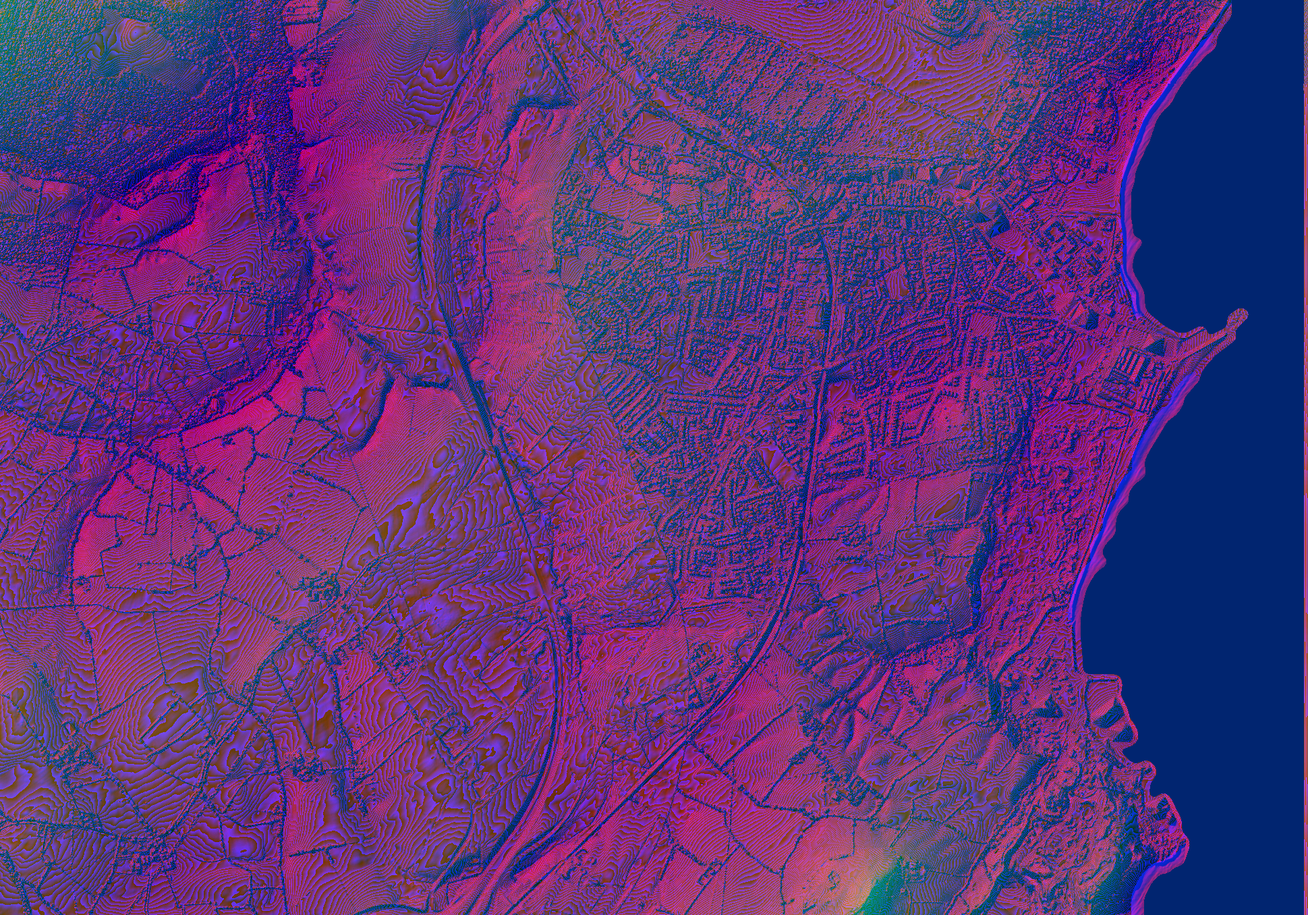
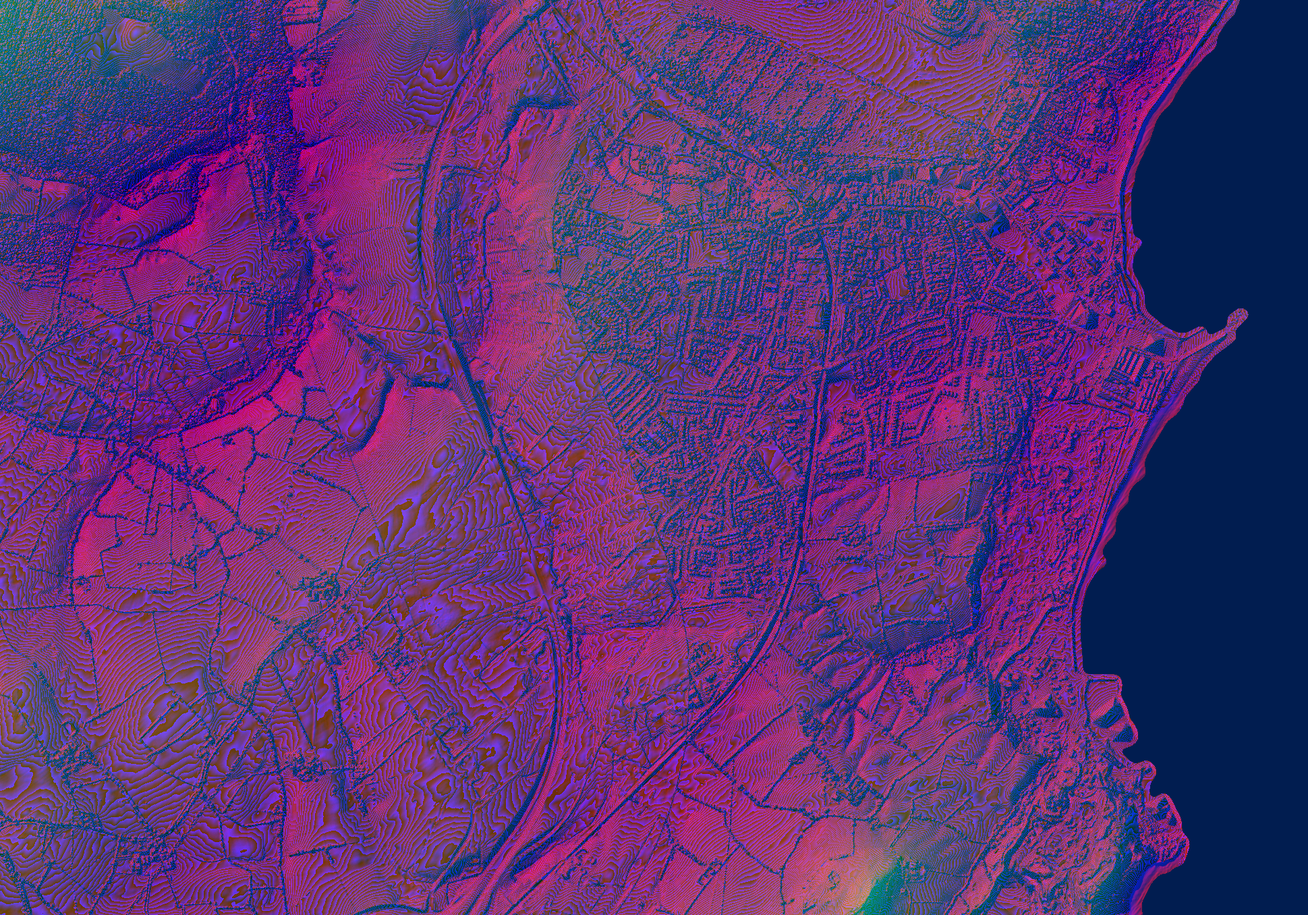
Hand-over: detail starts as coarse as the overview; Arklow edge stripe fixed
- a docked detail terrain starts with the overview's point density and
  point size, scattered off its grid, with a wide ragged margin; it fills
  up to the full scan only on the last stretch of the zoom
- the overview makes room for the detail where it lies, and stays around
  it until the very end
- the zoom pace is gentler in the middle (13 s in, 10 s out), so the
  hand-over gets its time
- Arklow: a strip of false land along the right border (border erosion
  of the sea mask) removed

Claude-Session: https://claude.ai/code/session_01AUtrK7ZNP4Cu7jf2w99u8u

Changed region(s): [[0.7117, 0.0, 1.0, 1.0], [0.0, 0.0, 0.0619, 1.0]]

diff --git a/assets/shrines.js b/assets/shrines.js
@@ -53,6 +53,10 @@ const uniforms = {
   uScale: { value: 1 },
   uRise: { value: 0 },
   uSoft: { value: 0 },
+  uLogMin: { value: 0 },
+  uJit: { value: 0 },
+  uHoleA: { value: 0 },
+  uHole: { value: new THREE.Vector4(0, 0, 1, 1) },
   uHalf: { value: new THREE.Vector2(1, 1) },
   uSize: { value: isSmall ? 1.6 : 1.35 },
   uPx: { value: renderer.getPixelRatio() },
@@ -71,8 +75,10 @@ const pointMat = new THREE.ShaderMaterial({
     attribute float aShade;
     attribute float aRand;
     attribute float aWater;
-    uniform float uTime, uSize, uPx, uLevel, uListen, uSpan, uDrift, uFar, uForm, uScale, uRise, uSoft;
+    uniform float uTime, uSize, uPx, uLevel, uListen, uSpan, uDrift, uFar, uForm, uScale, uRise, uSoft, uLogMin, uJit;
     uniform vec2 uHalf;
+    uniform float uHoleA;
+    uniform vec4 uHole;
     uniform vec3 uFocus;
     varying float vShade, vFog, vSweep, vRing, vWater;
     void main(){
@@ -106,20 +112,34 @@ const pointMat = new THREE.ShaderMaterial({
       vRing = exp(-pow((d - r) / 1.6, 2.0)) * (1.0 - r / 60.0) * (0.25 + uLevel * 2.2) * uListen;
       vRing += smoothstep(14.0, 0.0, d) * uLevel * 1.4 * uListen;
       p.y += vRing * 0.9;
+      // while coarse, points leave the scan's grid, like the scattered returns of the overview
+      if (uSoft > 0.0) p.xz += (vec2(fract(aRand * 91.7), fract(aRand * 57.3)) - 0.5) * uJit * pow(uSoft, 0.6);
       vec4 mv = modelViewMatrix * vec4(p, 1.0);
       gl_Position = projectionMatrix * mv;
       float depth = -mv.z / uScale;   // a terrain docked small into the overview keeps its own point size and haze
-      // a terrain that is just appearing inside the overview is drawn coarsely and without a border:
-      // fewer points, a little larger, thinning out toward its edges
+      // a terrain that is just appearing inside the overview starts as coarse as the overview around it:
+      // only as many points as the overview has on the same ground, just as large, scattered a little,
+      // and fading out over a wide, ragged margin. On the way in it fills up to the whole scan.
       float soft = 1.0;
+      float depthS = depth;
       if (uSoft > 0.0) {
-        float e = min(uHalf.x - abs(position.x), uHalf.y - abs(position.z)) / (0.34 * min(uHalf.x, uHalf.y));
-        float edge = smoothstep(0.0, 1.0, e + (aRand - 0.5) * 0.6);
-        float few = step(fract(aRand * 13.7), mix(1.0, 0.22, uSoft));
-        soft = mix(1.0, edge * few, uSoft);
+        float sc = pow(uSoft, 0.6);            // stay coarse for most of the way, sharpen at the end
+        float keep = exp(uLogMin * sc);
+        float few = step(fract(aRand * 13.7), keep);
+        float band = 0.85 * sc * min(uHalf.x, uHalf.y) + 1e-4;
+        float e = min(uHalf.x - abs(position.x), uHalf.y - abs(position.z)) / band;
+        float edge = smoothstep(0.0, 1.0, e + (fract(aRand * 5.31) - 0.5) * 1.1 * sc);
+        soft = few * edge;
+        depthS = exp(mix(log(depth), log(-mv.z), sc));   // point size of the overview at this distance
       }
-      gl_PointSize = clamp(uSize * uPx * (230.0 / depth) * (1.0 + 0.9 * uSoft), 0.9, 5.0 * uPx);
+      gl_PointSize = clamp(uSize * uPx * (230.0 / depthS), 0.9, 8.0 * uPx);
       vShade = aShade;
+      // the overview makes room for a detail terrain where it lies, as that terrain fills in
+      if (uHoleA > 0.0) {
+        vec2 q = abs(position.xz - uHole.xy) / uHole.zw;
+        float inside = 1.0 - smoothstep(0.6, 1.25, max(q.x, q.y) + (fract(aRand * 3.7) - 0.5) * 0.3);
+        soft *= 1.0 - uHoleA * inside;
+      }
       vFog = smoothstep(uFar, 220.0, depth) * life * form * soft;
       // scan dropout flicker
       vFog *= step(0.04, fract(aRand + uTime * 0.013 * aRand));
@@ -216,7 +236,7 @@ function makeCloud(img, opt) {
   geo.setAttribute("aWater", new THREE.BufferAttribute(wat.slice(0, n), 1));
   const points = new THREE.Points(geo, opt.mat || pointMat);
   points.frustumCulled = false;
-  return { points, W: W_, D: D_, heightAt: hAt, count: n, half };
+  return { points, W: W_, D: D_, heightAt: hAt, count: n, half, nx: NX };
 }
 
 /* ───────────── two views: Europe overview · one detail terrain ───────────── */
@@ -377,7 +397,7 @@ const ease = (t) => (t < 0.5 ? 4 * t * t * t : 1 - Math.pow(-2 * t + 2, 3) / 2);
 const K = 0.016;                       // size of a detail terrain inside the overview (about 4 units wide)
 const detUniforms = {
   uSpan: { value: DETAIL.world }, uDrift: { value: 8 }, uFar: { value: 6000 }, uForm: { value: 0 },
-  uScale: { value: 1 }, uRise: { value: 1 }, uSoft: { value: 0 }, uHalf: { value: new THREE.Vector2(1, 1) }, uFocus: { value: new THREE.Vector3(9999, 0, 9999) },
+  uScale: { value: 1 }, uRise: { value: 1 }, uSoft: { value: 0 }, uLogMin: { value: 0 }, uJit: { value: 0 }, uHoleA: { value: 0 }, uHole: { value: new THREE.Vector4(0, 0, 1, 1) }, uHalf: { value: new THREE.Vector2(1, 1) }, uFocus: { value: new THREE.Vector3(9999, 0, 9999) },
 };
 const detMat = pointMat.clone();
 detMat.uniforms = { ...uniforms, ...detUniforms };   // time, level and size are shared with the overview
@@ -403,6 +423,10 @@ function buildDetail(idx, img) {
   detGroup.children[2].material = detLineMat;
   detUniforms.uFocus.value.copy(detBase);
   detUniforms.uHalf.value.set(det.W / 2, det.D / 2);
+  // how much coarser the overview is on the same ground: as a share of points, and as a scatter distance
+  const cEu = eu.W / eu.nx, cDet = det.W / det.nx;
+  detUniforms.uLogMin.value = Math.log(Math.min(1, Math.max(5e-5, ((cDet * K) / cEu) ** 2 * 1.2)));
+  detUniforms.uJit.value = 0.5 * cEu / K;
 }
 const homeCam = (b) => new THREE.Vector3(b.x - 64, b.y + 78, b.z + 150);   // where the camera rests in a detail view
 function dock(place) {                 // detail terrain into the overview, its recording spot on the shrine
@@ -410,6 +434,7 @@ function dock(place) {                 // detail terrain into the overview, its 
   detGroup.position.copy(place).addScaledVector(detBase, -K);
   detGroup.updateMatrixWorld(true);
   detUniforms.uScale.value = K;
+  uniforms.uHole.value.set(detGroup.position.x, detGroup.position.z, det.W / 2 * K, det.D / 2 * K);
 }
 function undock() {
   detGroup.scale.setScalar(1); detGroup.position.set(0, 0, 0);
@@ -428,10 +453,14 @@ function stepLink() {
   if (!link) return;
   const d = camera.position.distanceTo(link.c);
   // the two overlap generously, so the picture never goes dark in between
-  setEuForm(sstep(4, 38, d));
-  setDetForm(det ? 1 - sstep(34, 150, d) : 0);
+  // around the detail terrain the overview stays until the very end
+  setEuForm(sstep(link.near * 1.05, link.near * 2.6, d));
+  setDetForm(det ? 1 - sstep(60, 160, d) : 0);
   // coarse and borderless while small, sharpening into the full scan on the last stretch
-  detUniforms.uSoft.value = sstep(link.near * 1.15, 42, d);
+  const n0 = Math.max(link.near, 0.5) * 1.02;
+  const sf = Math.min(1, Math.max(0, Math.log(d / n0) / Math.log(60 / n0)));
+  detUniforms.uSoft.value = sf;
+  uniforms.uHoleA.value = det ? 1 - Math.pow(sf, 0.6) : 0;
 }
 
 // zoom at an even pace for the eye: the distance to the target changes exponentially
@@ -456,7 +485,7 @@ function arrive(idx) {                  // exchange the coordinate systems: now 
   controls.minDistance = 7; controls.maxDistance = 420;
   controls.target.copy(detBase);
   camera.position.copy(homeCam(detBase));
-  setDetForm(1); setEuForm(0); detUniforms.uSoft.value = 0;
+  setDetForm(1); setEuForm(0); detUniforms.uSoft.value = 0; uniforms.uHoleA.value = 0;
   document.body.classList.add("detail");
   backBtn.hidden = false;
 }
@@ -473,7 +502,7 @@ async function descend(idx, img, ready) {
     res(ok);
   })));
   const rest = homeCam(new THREE.Vector3()).multiplyScalar(K);
-  await zoomTo(o.base.clone().add(rest), o.base, 11000);
+  await zoomTo(o.base.clone().add(rest), o.base, 13000);
   if (await built) arrive(idx);
   else { link = null; setEuForm(1); controls.minDistance = 10; camera.position.copy(euCam.p); controls.target.copy(euCam.t); }
 }
@@ -485,15 +514,16 @@ async function ascend() {
   const toEu = (v) => v.clone().multiplyScalar(K).add(detGroup.position);
   camera.position.copy(toEu(camera.position)); controls.target.copy(toEu(controls.target));
   euGroup.visible = true;
-  mode = "europe"; detIdx = -1; link = { c: o.base.clone(), near: 0 };
+  // start exactly as sharp as the detail view is now, wherever the visitor has moved to
+  mode = "europe"; detIdx = -1; link = { c: o.base.clone(), near: camera.position.distanceTo(o.base) / 1.1 };
   useView(eu);
   controls.minDistance = 0.01; controls.maxDistance = 3500;
   document.body.classList.remove("detail");
   backBtn.hidden = true;
   stepLink();
   const home = euCam || { p: new THREE.Vector3(0, 632, 843), t: new THREE.Vector3(0, 0, 51) };
-  await zoomTo(home.p, home.t, 8000, true);
-  link = null;
+  await zoomTo(home.p, home.t, 10000, true);
+  link = null; uniforms.uHoleA.value = 0;
   clearDetail(); detGroup.visible = false; undock();
   controls.minDistance = 10;
   setEuForm(1);
@@ -990,7 +1020,7 @@ function loop() {
   }
 
   if (flight && flight.zoom) {
-    const f = flight, k = Math.min(1, (performance.now() - f.t0) / f.dur), e = ease(k);
+    const f = flight, k = Math.min(1, (performance.now() - f.t0) / f.dur), e = 0.5 - 0.5 * Math.cos(Math.PI * k);
     // the target is found early on the way in, and left late on the way out
     const et = f.late ? ease(Math.max(0, (k - 0.45) / 0.55)) : ease(Math.min(1, k / 0.4));
     controls.target.lerpVectors(f.c0, f.c1, et);
